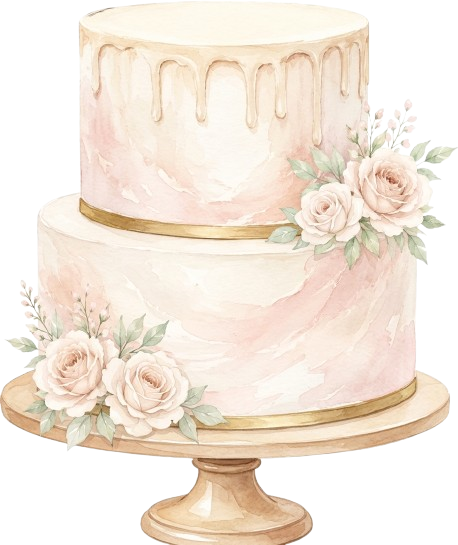
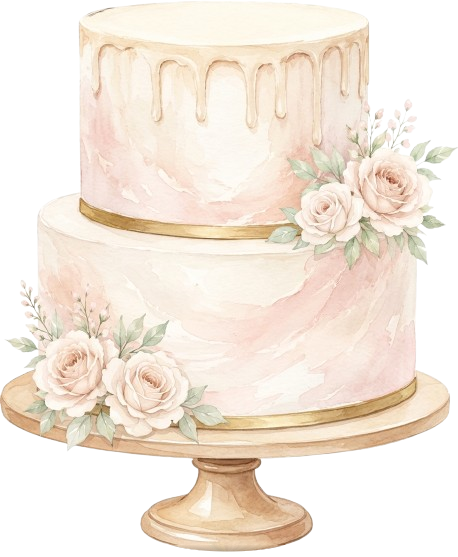
fix: perfectly round the wooden pedestal base in cake-lovegift.webp and update aspect ratio

diff --git a/src/components/Cake2D.tsx b/src/components/Cake2D.tsx
@@ -293,9 +293,9 @@ export default function Cake2D({
           initial={{ opacity: 0, y: 32, scale: 0.94 }}
           animate={{ opacity: 1, y: 0, scale: 1 }}
           transition={{ duration: 1.15, ease: [0.16, 1, 0.3, 1], delay: 0.28 }}
-          className="relative w-full aspect-[494/686] max-w-[280px] sm:max-w-[310px] flex items-center justify-center"
+          className="relative w-full aspect-[458/557] max-w-[280px] sm:max-w-[310px] flex items-center justify-center"
         >
-          {/* Ảnh bánh kem màu nước 2 tầng với chân đế gỗ uốn lượn tinh xảo (HOÀN TOÀN KHÔNG CÓ BÓNG ĐEN NHÂN TẠO) */}
+          {/* Ảnh bánh kem màu nước 2 tầng với chân đế gỗ uốn lượn tinh xảo (ĐẾ TRÒN TỰ NHIÊN, KHÔNG CẮT NGANG) */}
           <img
             src="/cake-lovegift.webp"
             alt="Bánh kem sinh nhật"
@@ -308,7 +308,7 @@ export default function Cake2D({
           <div
             className="absolute z-20 flex flex-col items-center cursor-pointer"
             style={{
-              top: '7%',
+              top: '4.5%',
               left: '50%',
               transform: 'translate(-50%, -100%)',
             }}
